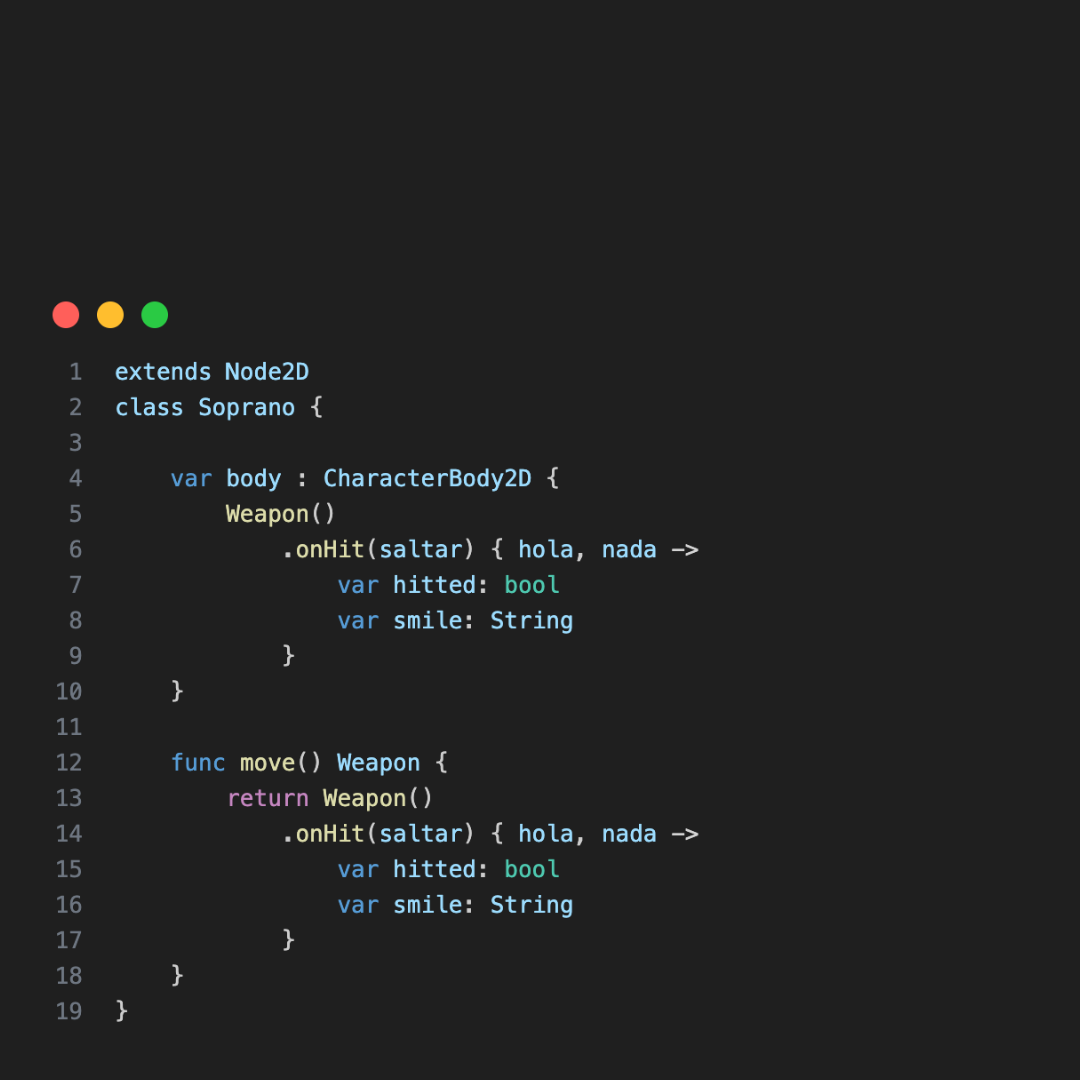
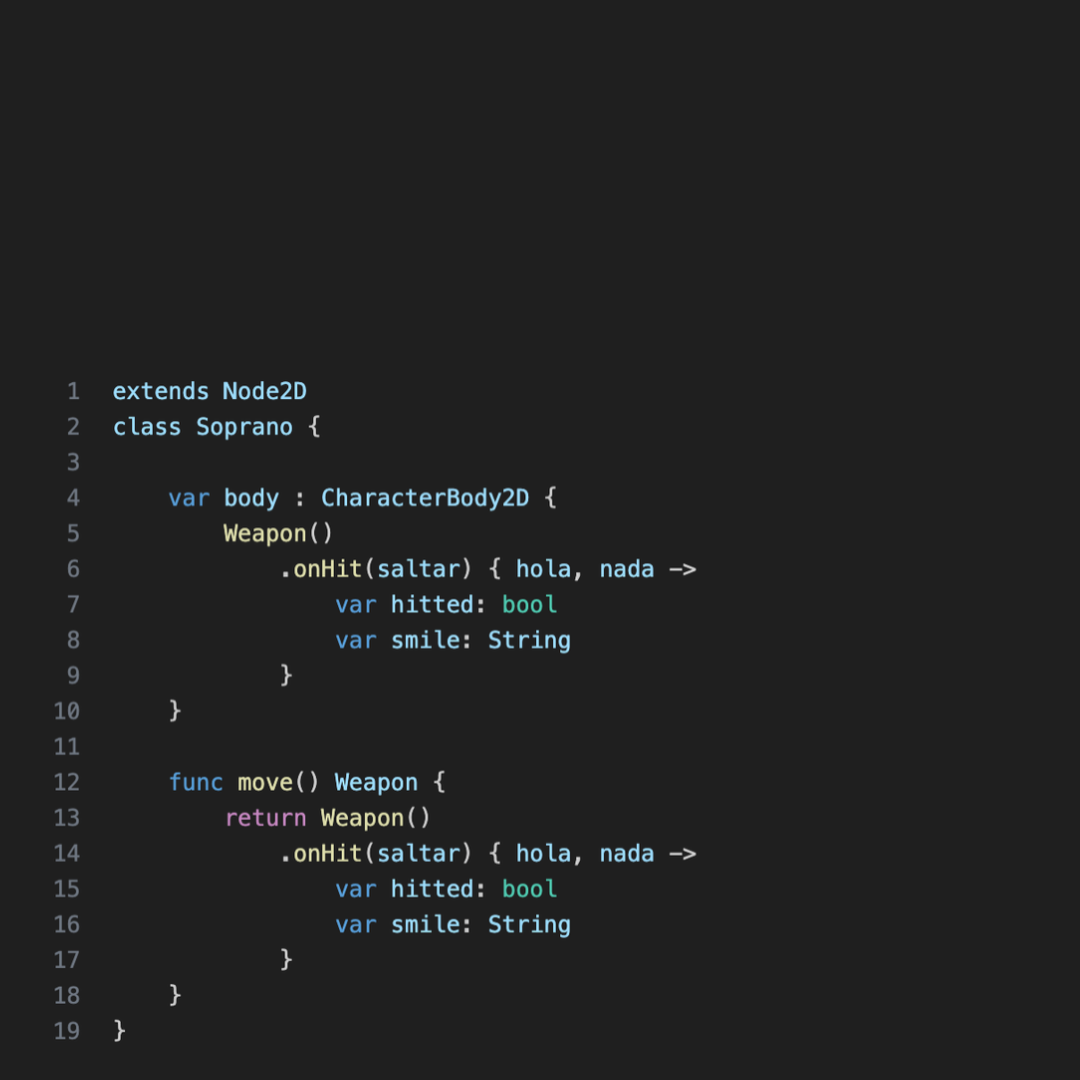
reframe text details on projects pages

diff --git a/index.html b/index.html
@@ -3,7 +3,7 @@
 <head>
     <meta charset="UTF-8">
     <meta name="viewport" content="width=device-width, initial-scale=1.0">
-    <title>Elvis Villavicencio Portfolio</title>
+    <title>Portfolio - Elvis Villavicencio</title>
     <link rel="stylesheet" href="styles/main.css">
     <link rel="stylesheet" href="https://cdnjs.cloudflare.com/ajax/libs/font-awesome/7.3.1/css/all.min.css">
 </head>
@@ -30,12 +30,12 @@
                 </p>
 
                 <p>
-                I make games using Godot and Unity, currently leaning my efforts to become a technical artist that can make games to stand out.
+                I make games using Godot and Unity. I also do art, currently leaning my efforts towards becoming a technical artist that can make games stand out.
                 </p>
 
                 <p>
-                Making iOS Apps is another passion of mine, developing apps that target a specific problem for myself like language learning or project organization 
-                has been the motivation for learning this technology.
+                Making iOS applications is another passion of mine: Developing apps that target a specific problem for myself like language learning or project organization 
+                has been my motivation for learning this technology.
                 </p>
             </div>
 
@@ -60,7 +60,7 @@
                 </a>
                 
                 <a href="mailto: elvisvillavicencio.creative@gmail.com">
-                    <i class="fa-solid fa-envelope" style="color: rgb(4, 137, 197);"></i>
+                    <i class="fa-solid fa-envelope" style="color: #d92b94;"></i>
                 </a>
                 
             </div>
@@ -76,7 +76,7 @@
                 <img src="project-images/thekindred.png" alt="">
                 <h3>The Kindred</h3>
                 <span>
-                    Souls Ported from Unity to the Godot Engine | On development |
+                    "Souls" ported from Unity to Godot Engine.
                 </span>
             </div>
         </a>
@@ -86,7 +86,7 @@
                 <img src="project-images/soul.png" alt="">
                 <h3 class="card-title">Souls</h3>
                 <span>
-                    2D Game Developed in Unity Engine.
+                    2D game developed in Unity Engine.
                 </span>
             </div>
         </a>
@@ -96,7 +96,7 @@
                 <img src="project-images/leafstone.png" alt="">
                 <h3 class="card-title">LeafStone</h3>
                 <span>
-                    Project Learning Focused Areas: Combat and EnemyAI
+                    Prototype project focussing on combat and enemy AI.
                 </span>
             </div>
         </a>
@@ -106,7 +106,7 @@
                 <img src="./project-images/cutebiproject.png" alt="">
                 <h3>Cutebit</h3>
                 <span>
-                    Casino Application, Extensive use of UI | Godot Engine
+                    Freelancer project: Casino application with extensive use of UI.
                 </span>
             </div>
         </a>
@@ -116,7 +116,7 @@
                 <img src="./project-images/mycolony.png" alt="My Colony">
                 <h3>My Colony</h3>
                 <span>
-                    GodotWildJam 85 | SwiftGodot
+                    Godot Wild Jam 85 | SwiftGodot
                 </span>
             </div>
         </a>
@@ -142,9 +142,9 @@
         <a href="project-pages/VisualUI.html">
             <div class="project-item">
                 <img src="project-images/toolbar.png" alt="">
-                <h3>VisualUI</h3>
+                <h3>VisualUI Plugin</h3>
                 <span>
-                    Plugin: ContextToolBar for easier UI styling and Sizing in Godot Engine, continue the work done in GDScriptIU
+                    Context toolbar for easier UI styling and sizing in Godot Engine.
                 </span>
             </div>
         </a>
@@ -155,7 +155,7 @@
                 <img src="./project-images/gdscriptui.png" alt="GDScriptUI">
                 <h3>GDScriptUI</h3>
                 <span>
-                    (Archived) Declarative UI framework inspired in SwiftUI | GDScript
+                    (Archived) Declarative UI framework inspired by SwiftUI | GDScript
                 </span>
             </div>
         </a>
@@ -166,7 +166,7 @@
                 <img src="project-images/gdbraces.png" alt="">
                 <h3>GDBraces</h3>
                 <span>
-                    Transpiled and Interpreted Language implementation | GDScript
+                    Transpiled and interpreted programming language | GDScript
                 </span>
             </div>
         </a>

diff --git a/project-pages/GDBraces.html b/project-pages/GDBraces.html
@@ -30,22 +30,22 @@
             <section class="project-content" aria-labelledby="project-overview">
                 <div class="content-heading">
                     <p class="eyebrow">Overview</p>
-                    <h2 id="project-overview">Building a world through code and colors.</h2>
+                    <h2 id="project-overview">Experimenting with language design.</h2>
                 </div>
 
                 <div class="content-body">
                     <p class="project-description">
-                        Transpiled Programming Language implemented in GDScript following the book "Crafting Interpreters" from Robert Nystrom.
-                        This project is an exploration of how programming languages work, GDBraces completes the implementation of Tree Walk Interpreter + my own effort of implementing the Transpiler have GDBraces source code work directly to Godot
+                        Transpiled programming language implemented in GDScript following the book "Crafting Interpreters" by Robert Nystrom.
+                        This project is an exploration of how programming languages work. GDBraces completes the implementation of Tree Walk Interpreter and my own efforts of implementing the transpiler to have GDBraces source code work directly in Godot.
                     </p>
 
                     <ul class="keypoints">
-                        <li>Tokenizer: from the book and a few more tokens implemented by myself</li>
-                        <li>Parser: Ensures syntax correctness and reports errors messages. Its output is a Tree Tokens that represents the semantics of the program</li>
-                        <li>Resolver: analyzes the scope of variables on each block of code to ensure variables exist before execution</li>
-                        <li>Interpreter: Executes the instructions of the program</li>
-                        <li>Transpiler: Code generation to take GDBraces syntax into GDScript syntax that can be executed at runtime, this enables GDBraces as an scripting language for Godot Engine. Its implementation is still partial and more of an exploration than as a final usable solution</li>
-                        <li>Implemented Godot plugins: ResourceLoader, ResourcerSaver, ContextMenuPlugin and EditorInspectorPlugins for a more robust integration in the Engine</li>
+                        <li>Tokenizer: Following the book as well as implementing a few additional tokens by myself.</li>
+                        <li>Parser: Ensuring syntax correctness and reporting errors messages. Its output is a tree token that represents the semantics of the program.</li>
+                        <li>Resolver: Analyzing the scope of variables on each block of code to ensure variables exist before execution.</li>
+                        <li>Interpreter: Executing the instructions of the program.</li>
+                        <li>Transpiler: Code generation to take GDBraces syntax into GDScript syntax that can be executed at runtime. This enables GDBraces as an scripting language for Godot Engine. Its implementation is still partial and more of an exploration than a final usable solution.</li>
+                        <li>Implemented Godot plugins: ResourceLoader, ResourcerSaver, ContextMenuPlugin and EditorInspectorPlugins for a more robust integration into the Engine.</li>
                     </ul>
                 </div>
             </section>

diff --git a/project-pages/VisualUI.html b/project-pages/VisualUI.html
@@ -16,32 +16,33 @@
             </a>
 
             <header class="project-header">
-                <p class="eyebrow"> Plugin: ContextToolBar for easier UI | Godot Engine</p>
-                <h1>VisualUI</h1>
+                <p class="eyebrow">Context Toolbar Simplifying UI Creation | Godot Engine</p>
+                <h1>VisualUI Plugin</h1>
             </header>
 
             <img src="../project-images/toolbar.png" class="hero-image" alt="Cutebit aplication image">
 
             <div class="project-meta">
-                <p class="dates">Toolbar for easier Sizing and Styling of UI</p>
+                <p class="dates">Editor plugin that implements a context toolbar, layout sizing and style manager.</p>
                 <p class="job-title">Programmer / Designer</p>
             </div>
 
             <section class="project-content" aria-labelledby="project-overview">
                 <div class="content-heading">
                     <p class="eyebrow">Overview</p>
-                    <h2 id="project-overview">Building a world through code and colors.</h2>
+                    <h2 id="project-overview">Improving UI development workflows in Godot.</h2>
                 </div>
 
                 <div class="content-body">
                     <p class="project-description">
-                        Cutebit is a casino application developed in collaboration with the design team and backend team. 
+                        By creating VisualUI, I developed a tool I would have loved to have in some of my previous projects. This plugin implements a context toolbar for easier UI styling and sizing in Godot engine. Commercial release planned. 
                     </p>
 
                     <ul class="keypoints">
-                        <li>Design and developed the product proposition: Simplifying Sizing semantics for UI Layout, replacing Godot UI fill approach to FitContent Approach.</li>
-                        <li>ToolBar that encapsulates and simplify how the user styles the UI, modified tab to faster lookup of what properties where modified in an Object.</li>
-                        <li>Reimplements the work done in GDScriptUI into an integrated plugin editor, giving a better experience of the UI creation in Godot.</li>
+                        <li>Designed and developed the entire product proposition: A responsive toolbar that encapsulates and simplifies UI for users by improving sizing semantics for UI layout, replacing the Godot UI fill approach with the FitContent approach.</li>
+                        <li>The user is meant to easily be able to style the UI by using a modifiy tab to faster lookup which properties where modified in an object, giving a better experience of UI creation in Godot.</li>
+                        <li>Implemented the UI design, layout, and interactions of the plugin.</li>
+                        <li>Evolves and re-implements work first done in GDScriptUI, a declarative UI framework inspired by SwiftUI for Godot engine, into an integrated plugin editor.</li>
                     </ul>
                 </div>
             </section>

diff --git a/project-pages/The Kindred.html b/project-pages/The Kindred.html
@@ -48,7 +48,7 @@
                     </p>
 
                     <ul class="keypoints">
-                        <li>Developed gameplay systems: player mechanics, enemy AI, combat systems, save system, and level transitions.</li>
+                        <li>Developed gameplay systems: Player mechanics, enemy AI, combat systems, save system, and level transitions.</li>
                         <li>Designed and animated characters, enemies, environment art, parallax backgrounds, and tilemaps.</li>
                         <li>Created and implemented the HUD, inventory, and character panel.</li>
                         <li>Built atmosphere through lighting, post-processing effects, particle systems, and sound effects.</li>
